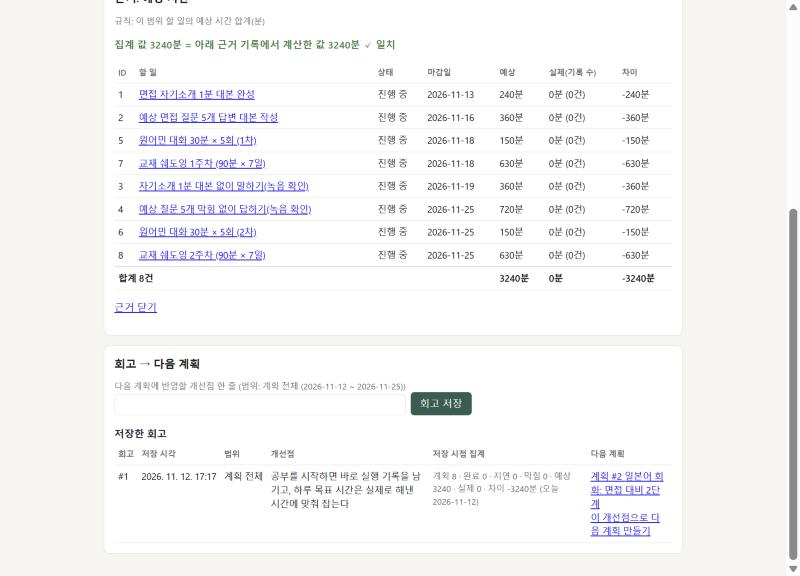
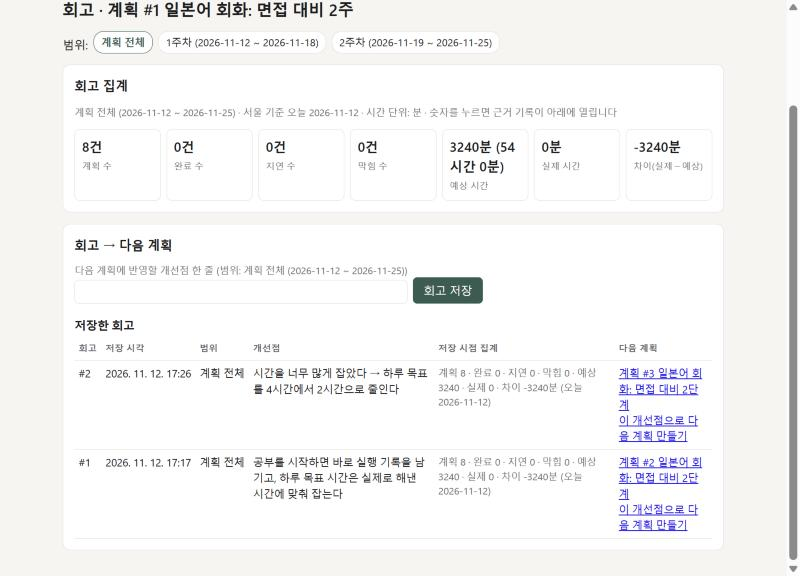
회고 #2와 다음 계획 #3(사용자가 정한 개선점·예상 시간) 반영, 제출문 확정
- 회고 #2: "시간을 너무 많게 잡았다 → 하루 목표를 4시간에서 2시간으로 줄인다"
- 계획 #3: 회고 #2에서 만든 다음 계획(11/26~12/09, 1680분)
- 증거 화면·최종 내보내기 갱신, 제출문 상태와 ① 정리

diff --git a/docs/SUBMISSION.md b/docs/SUBMISSION.md
@@ -10,7 +10,9 @@
 ---
 
 ## 제출 시점 상태 (2026-11-12)
-- 실제 계획: 계획 #1 「일본어 회화: 면접 대비 2주」(v2), 할 일 8개, 회고 #1, 개선점을 반영한 다음 계획 #2
+- 실제 계획: 계획 #1 「일본어 회화: 면접 대비 2주」(v2), 할 일 8개
+- 회고 #2 개선점 「시간을 너무 많게 잡았다 → 하루 목표를 4시간에서 2시간으로 줄인다」를 반영한 다음 계획 #3 「일본어 회화: 면접 대비 2단계」(11/26~12/09, 하루 120분 × 14일 = 1680분)
+- 회고 #1과 계획 #2는 먼저 저장한 것으로, 회고·계획 이력은 지울 수 없게 만들어 두어 그대로 남아 있다
 - **실행 기록: 0건** — C80(실행 기록 3개 이상)과 실행 기록 화면(C23~C27)은 아직 충족하지 못했다. 기능은 구현·검증되어 있고, 실제 공부를 한 뒤 기록을 넣는다.
 - 회고 집계: 계획 수 8, 예상 3240분 등 0이 아닌 값이 있음(C81)
 
@@ -40,17 +42,15 @@
 ## 제출문
 
 ### ① AI에게 맡긴 일
-(사실 목록 — 직접 확인하고 고쳐 주세요)
 - 내가 정한 설계(데이터 항목, 이력 보존 방식, 정렬·필터 규칙, 중복 완료 방지 방식, 집계 규칙)에 맞춰 DB 스키마·API·화면 코드를 작성
 - 로컬 임시 DB로 통과 기준별 자동 검사 작성·실행, 실제 화면에서 버튼·폼 동작 확인
 - Supabase SQL 실행, GitHub 저장소 생성·푸시, Vercel 프로젝트 설정(비밀값 입력 제외) 등 배포 작업
 - 증거 화면 캡처, 스키마 계약 파일과 대조 스크립트, 보안 점검 스크립트 작성
 - 배포 후 요청이 멈추는 문제(DB 연결 재사용) 원인 추적과 수정
-- 제출 당일 내 요청으로 AI가 정한 것: 회고 개선점 문장, 다음 계획의 예상 시간(1680분), 이 제출문 ②③ 초안(아래는 내가 대화에서 실제로 고른 내용을 AI가 정리한 것)
-- AI가 하지 않은 것: 실행 기록을 임의로 만들어 달라는 내 요청은 AI가 거절했다(아직 하지 않은 공부 기록이 되기 때문). 그래서 제출 시점 실행 기록은 0건이다
+- 회고 #1의 개선점 문장과 계획 #2의 예상 시간 제안(이후 개선점과 예상 시간은 내가 다시 정해 회고 #2·계획 #3을 만들었다)
+- 제출문 ②③을 내가 대화에서 고른 내용을 바탕으로 정리(내용은 내가 확인해 확정)
 
 ### ② 내가 직접 판단한 일
-(초안 — 대화에서 내가 실제로 고른 것을 정리. 읽고 고쳐서 제출)
 - 이전에 AI가 혼자 만든 코드를 쓰지 않고 지운 뒤, 카드마다 선택지를 보고 직접 고르며 처음부터 다시 만들기로 했다.
 - 실제 계획으로 자격증 공부 대신 일본어 회화(면접 대비)를 골랐고, 하루 4시간을 면접 대본 120분·원어민 대화 30분·교재 90분으로 나눴다. 기간은 2주(11/12~11/25), 우선순위는 높음.
 - 성공 기준을 자기소개 1분, 예상 질문 5개 막힘 없이 답하기, 원어민 대화 10회로 정했다.
@@ -59,7 +59,6 @@
 - 다음 계획은 같은 구성을 이어 가되 예상 질문을 10개로 늘리고, 자격증 공부와 병행하려고 우선순위를 보통으로 낮췄다.
 
 ### ③ AI 제안을 따르지 않은 일 (없다면 그 이유)
-(초안 — 실제로 AI 추천과 다르게 고른 것)
 - 계획: AI는 자격증 공부 하나를 추천했지만 일본어 회화를 골랐다.
 - 성공 기준: AI는 "자기소개 3분" 하나만 두자고 했지만, 하루 4시간 중 절반만 면접 대본이라 기준과 시간이 맞지 않는다는 점을 내가 짚었고, 자기소개를 1분으로 줄이고 예상 질문 5개·대화 10회를 넣었다.
 - 증거 화면: AI는 검색과 필터를 각각 찍자고 했지만 한 화면에 함께 찍기로 했다.

diff --git a/docs/evidence/README.md b/docs/evidence/README.md
@@ -42,8 +42,8 @@
 | 파일 | 기준 | 보이는 것 |
 |---|---|---|
 | `c4-1-stats-evidence-estimated.jpg` | C28~C32, C83 | 회고 집계(계획 8·완료 0·지연 0·막힘 0·예상 3240·실제 0·차이 −3240분). 예상 시간을 눌러 연 근거 표 8건, "집계 3240분 = 근거 3240분 ✓ 일치" |
-| `c4-2-review-saved-next-plan.jpg` | C33 | 회고 #1(개선점 한 줄 + 저장 시점 집계)과, 그 개선점으로 만든 계획 #2 링크 |
-| `c4-3-next-plan-carried.jpg` | C33 | 계획 #2 맨 위 "회고 #1에서 반영한 개선점: 공부를 시작하면 바로 실행 기록을 남기고, 하루 목표 시간은 실제로 해낸 시간에 맞춰 잡는다" |
+| `c4-2-review-saved-next-plan.jpg` | C33 | 저장한 회고 2건(개선점 한 줄 + 저장 시점 집계)과 각 개선점으로 만든 다음 계획 링크(회고 #2 → 계획 #3, 회고 #1 → 계획 #2) |
+| `c4-3-next-plan-carried.jpg` | C33 | 계획 #3 맨 위 "회고 #2에서 반영한 개선점: 시간을 너무 많게 잡았다 → 하루 목표를 4시간에서 2시간으로 줄인다", 예상 시간 1680분(하루 120분 × 14일) |
 
 제출 시점에 실행 기록이 0건이라 실제 시간·막힘 수는 0입니다(C32: 대상 데이터가 없으면 0).
 
@@ -54,7 +54,7 @@
 | `c5-1-notice-home.jpg` | C82 | 첫 화면(모든 화면) 맨 위 "지금은 로그인이 없어 링크를 아는 사람은 누구나 볼 수 있습니다. 남이 봐도 괜찮은 내용만 넣으세요" |
 | `c5-2-xss-text.jpg` | C57 | 제목에 `<script>alert('XSS')</script><img src=x onerror=…>`를 넣어 저장 → 글자 그대로 보이고, alert가 뜨지 않으며 script·img 요소가 만들어지지 않음(시연 할 일 #10, 이후 삭제) |
 | `c5-3-after-reload.jpg` | C35 | 페이지를 완전히 새로 불러온 뒤 화면. 새로고침 전후로 계획 표·할 일 8개(ID·마감일·우선순위·예상 분)·수정 이력 2개 버전의 표시값이 글자 하나까지 같음 |
-| `pds-export-20261112T081905Z.json` | C36 | 제출 시점에 내보내기로 받은 파일 하나(계획 2·이력 3·할 일 10(삭제된 시연 2건 포함)·완료 기록 1·실행 기록 0·회고 1·계획별 집계) |
+| `pds-export-20261112T082743Z.json` | C36 | 제출 시점에 내보내기로 받은 파일 하나(계획 3·이력 4·할 일 10(삭제된 시연 2건 포함)·완료 기록 1·실행 기록 0·회고 2·계획별 집계) |
 
 ### 비밀값·XSS 점검 결과 (C57, C58)
 `BASE_URL=https://skt-aleph-task6.vercel.app node scripts/check-security.mjs` → **6/6 PASS**
